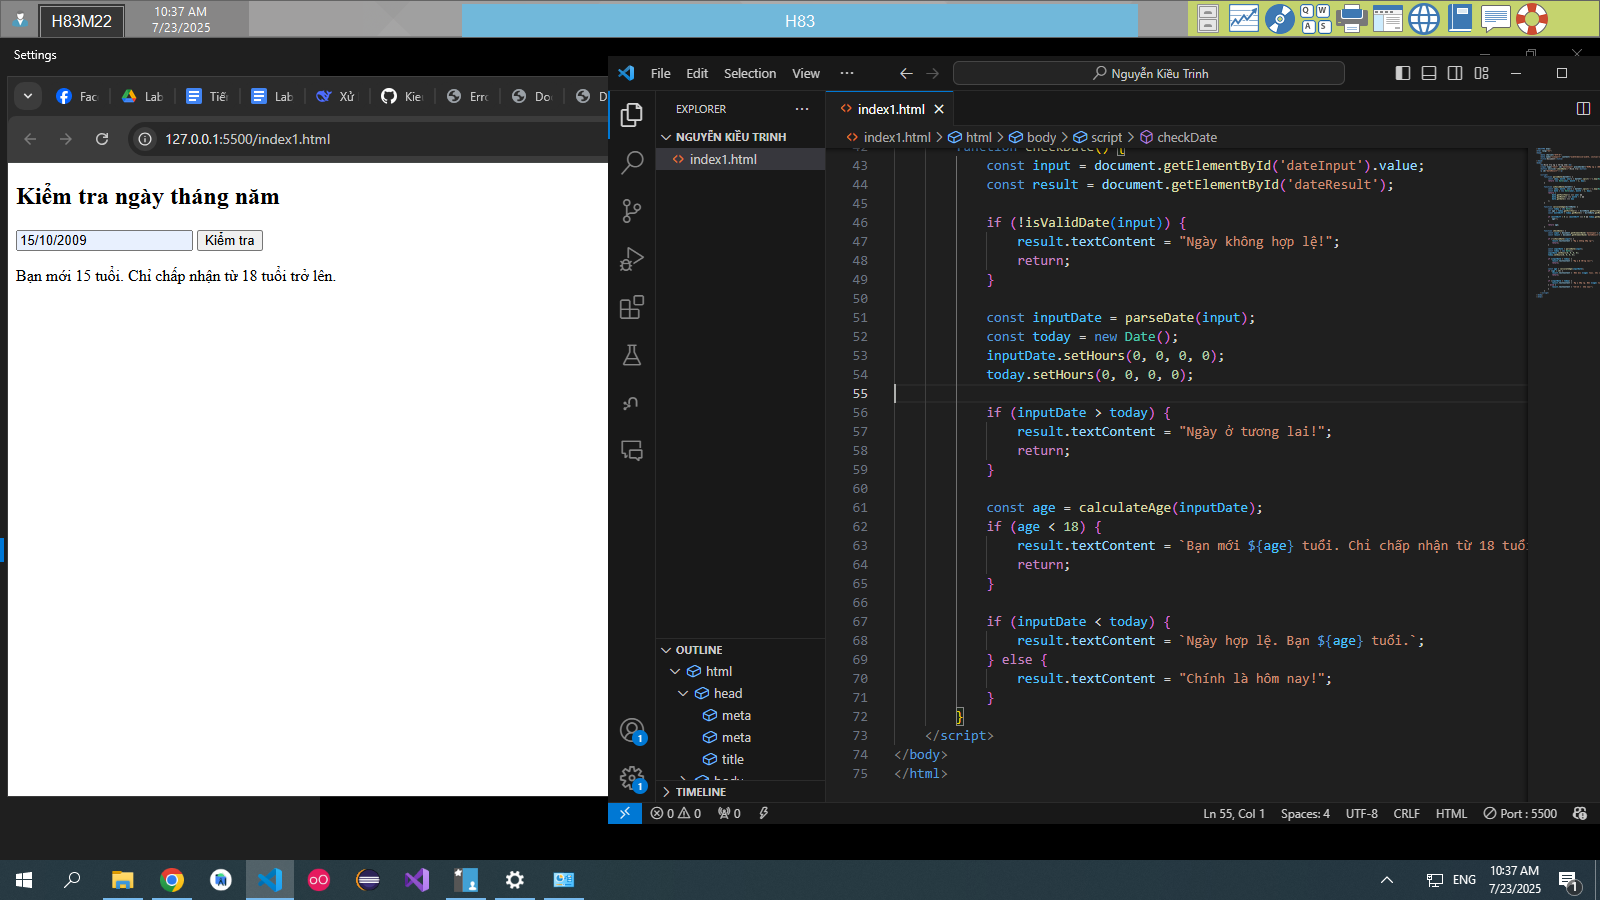
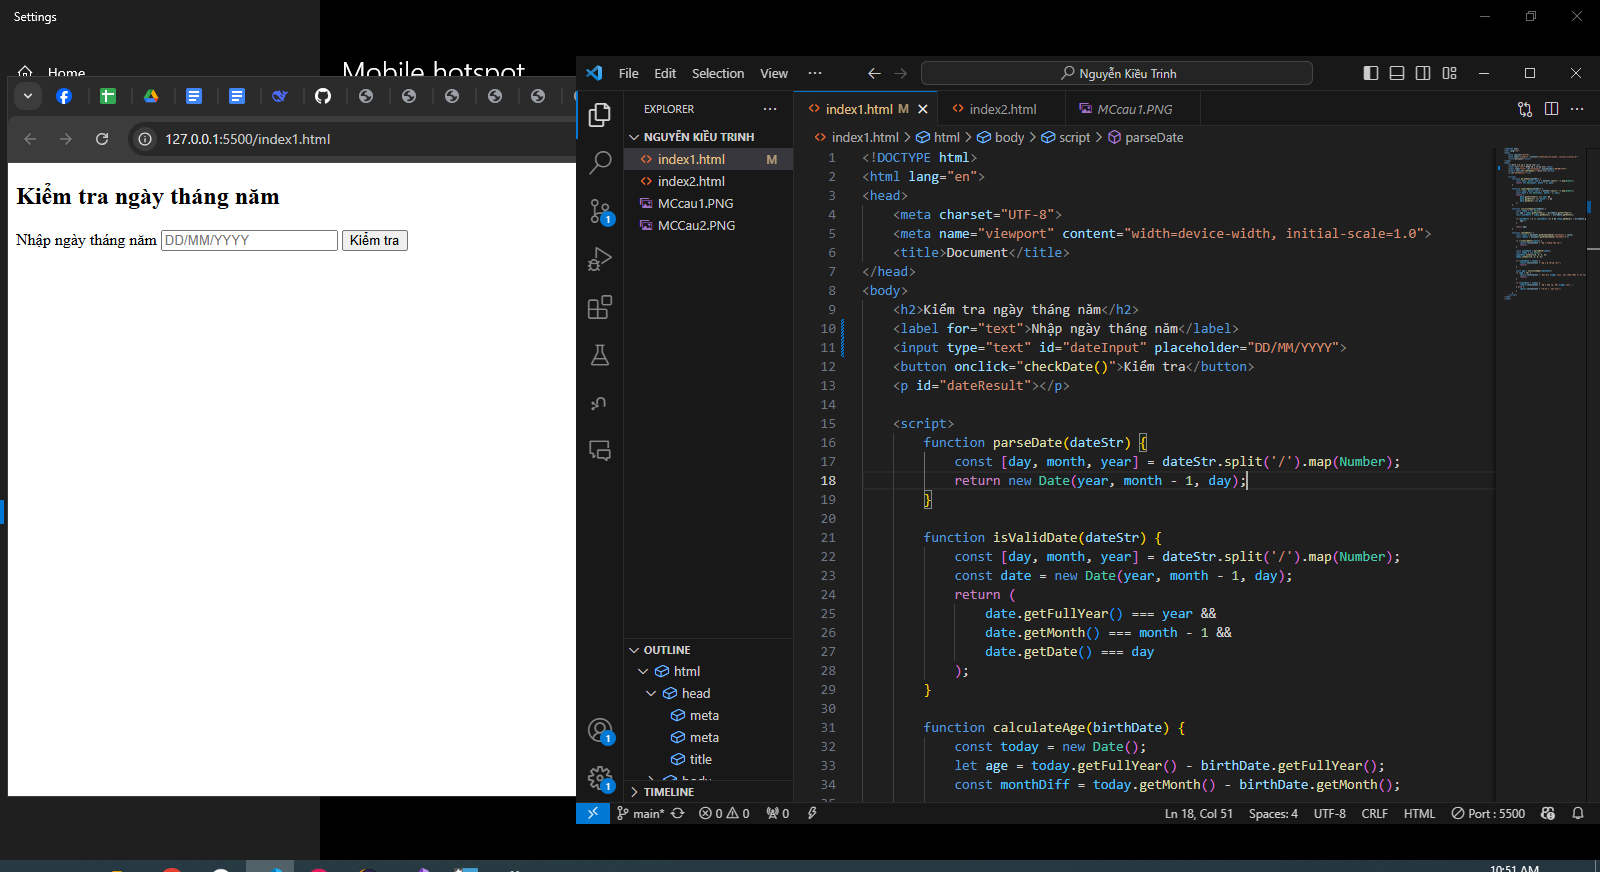
add file index1.html + MCcau1

diff --git a/index1.html b/index1.html
@@ -7,7 +7,8 @@
 </head>
 <body>
     <h2>Kiểm tra ngày tháng năm</h2>
-    <input type="text" id="dateInput" placeholder="Nhập ngày (DD/MM/YYYY)">
+    <label for="text">Nhập ngày tháng năm</label>
+    <input type="text" id="dateInput" placeholder="DD/MM/YYYY">
     <button onclick="checkDate()">Kiểm tra</button>
     <p id="dateResult"></p>
 
